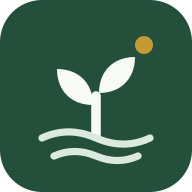
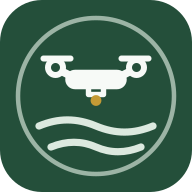
feat(brand): refine SIGIC mark with drone and fields

Changed region(s): [[0.0625, 0.0625, 0.9375, 0.9375]]

diff --git a/public/sw.js b/public/sw.js
@@ -1,4 +1,4 @@
-const CACHE = "sigic-v4";
+const CACHE = "sigic-v5";
 const APP_SHELL = [
   "/",
   "/offline",
